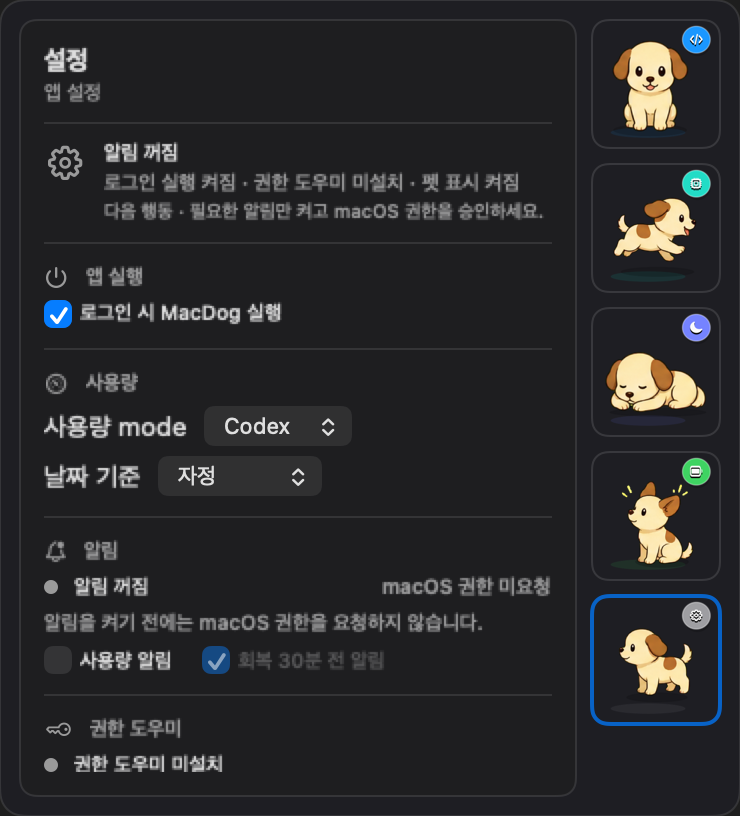
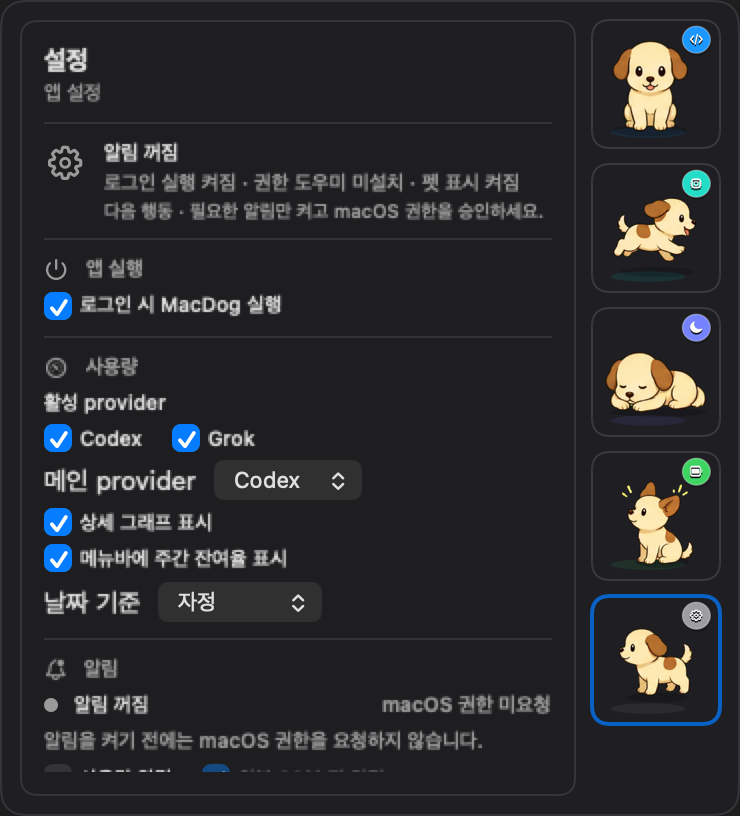
fix: keep popover frames unclipped and refresh README snapshots
Draw shell and content strokes inside their bounds, clip to the
rounded frames, and regenerate Codex/Grok/settings snapshots for
the current dual-provider UI.

Changed region(s): [[0.0622, 0.3064, 0.7459, 0.9498], [0.4351, 0.5821, 0.4662, 0.6127], [0.4351, 0.5208, 0.4662, 0.5515]]

diff --git a/Tests/MacDogTests/PopoverScreenshotRendererTests.swift b/Tests/MacDogTests/PopoverScreenshotRendererTests.swift
@@ -384,6 +384,9 @@ final class PopoverScreenshotRendererTests: XCTestCase {
         XCTAssertTrue(popoverSource.contains("pinsCombinedUsageGauges"))
         XCTAssertTrue(popoverSource.contains("selectedModule == .codex"))
         XCTAssertTrue(popoverSource.contains("fixedSize(horizontal: false, vertical: true)"))
+        XCTAssertTrue(popoverSource.contains(".strokeBorder(Color.primary.opacity(0.12), lineWidth: 1)"))
+        XCTAssertTrue(popoverSource.contains(".clipShape(RoundedRectangle(cornerRadius: MacDogPopoverLayout.shellCornerRadius))"))
+        XCTAssertFalse(popoverSource.contains(".stroke(Color.primary.opacity(0.12), lineWidth: 1)"))
         let gaugesSource = try String(contentsOfFile: "Sources/MacDog/CombinedUsageGauges.swift")
         XCTAssertTrue(gaugesSource.contains("protocol UsageGaugeQuerying"))
         XCTAssertTrue(gaugesSource.contains("UsageGaugeQueryCatalog"))
@@ -702,7 +705,8 @@ final class PopoverScreenshotRendererTests: XCTestCase {
             RunnerPreferences.usageProviderModeKey,
             RunnerPreferences.usageEnabledProviderMaskKey,
             RunnerPreferences.usageDetailGraphVisibleKey,
-            RunnerPreferences.usageGraphDateBaselineKey
+            RunnerPreferences.usageGraphDateBaselineKey,
+            RunnerPreferences.usageMenuBarWeeklyRemainingVisibleKey
         ]
         var previousValues: [String: Any] = [:]
         for key in keysToRestore {
@@ -744,7 +748,14 @@ final class PopoverScreenshotRendererTests: XCTestCase {
 
         if requestedModules.isEmpty || requestedModules.contains("grok") {
             configureDefaults(for: .codex, defaults: defaults)
-            RunnerPreferences.setUsageProviderMode(.grok, defaults: defaults)
+            RunnerPreferences.setUsageProviderSelection(
+                UsageProviderSelection(
+                    enabled: [.codex, .grok],
+                    main: .grok,
+                    detailGraphVisible: true
+                ),
+                defaults: defaults
+            )
             let preferences = RunnerPreferences(defaults: defaults)
             let state = MacDogDemoData.state(
                 preferences: preferences,
@@ -906,7 +917,14 @@ final class PopoverScreenshotRendererTests: XCTestCase {
 
     private func configureDefaults(for module: MacDogPopoverModule, defaults: UserDefaults) {
         RunnerPreferences.setSleepPreventionControlMode(.off, defaults: defaults)
-        RunnerPreferences.setUsageProviderMode(.codex, defaults: defaults)
+        RunnerPreferences.setUsageProviderSelection(
+            UsageProviderSelection(
+                enabled: [.codex, .grok],
+                main: .codex,
+                detailGraphVisible: true
+            ),
+            defaults: defaults
+        )
         RunnerPreferences.setUsageGraphDateBaseline(.calendarMidnight, defaults: defaults)
         defaults.set(module.rawValue, forKey: RunnerPreferences.popoverModuleKey)
 

diff --git a/Sources/MacDog/UsagePopoverView.swift b/Sources/MacDog/UsagePopoverView.swift
@@ -38,10 +38,11 @@ struct UsagePopoverView: View {
             RoundedRectangle(cornerRadius: MacDogPopoverLayout.shellCornerRadius)
                 .fill(MacDogPopoverLayout.shellBackgroundColor)
         )
-        .overlay(
+        .clipShape(RoundedRectangle(cornerRadius: MacDogPopoverLayout.shellCornerRadius))
+        .overlay {
             RoundedRectangle(cornerRadius: MacDogPopoverLayout.shellCornerRadius)
-                .stroke(Color.primary.opacity(0.12), lineWidth: 1)
-        )
+                .strokeBorder(Color.primary.opacity(0.12), lineWidth: 1)
+        }
     }
 
     private var selectedModule: MacDogPopoverModule {
@@ -65,10 +66,11 @@ struct UsagePopoverView: View {
             RoundedRectangle(cornerRadius: 8)
                 .fill(Color(nsColor: .controlBackgroundColor).opacity(0.72))
         )
-        .overlay(
+        .clipShape(RoundedRectangle(cornerRadius: 8))
+        .overlay {
             RoundedRectangle(cornerRadius: 8)
-                .stroke(Color.primary.opacity(0.12), lineWidth: 1)
-        )
+                .strokeBorder(Color.primary.opacity(0.12), lineWidth: 1)
+        }
     }
 
     private var tabRail: some View {

diff --git a/Sources/MacDog/Popover/SettingsPanel.swift b/Sources/MacDog/Popover/SettingsPanel.swift
@@ -40,7 +40,7 @@ struct SettingsPanel: View {
     }
 
     var body: some View {
-        VStack(alignment: .leading, spacing: 10) {
+        VStack(alignment: .leading, spacing: 8) {
             PopoverStatusSummary(
                 content: SettingsPanelSummaryContent(
                     notificationSettings: notificationSettingsSnapshot,
@@ -192,7 +192,7 @@ struct SettingsPanel: View {
                 .font(.caption2)
                 .foregroundStyle(.secondary)
         } else {
-            VStack(alignment: .leading, spacing: 5) {
+            VStack(alignment: .leading, spacing: 4) {
                 Text("활성 provider")
                     .font(.caption2.weight(.medium))
                 HStack(spacing: 14) {
